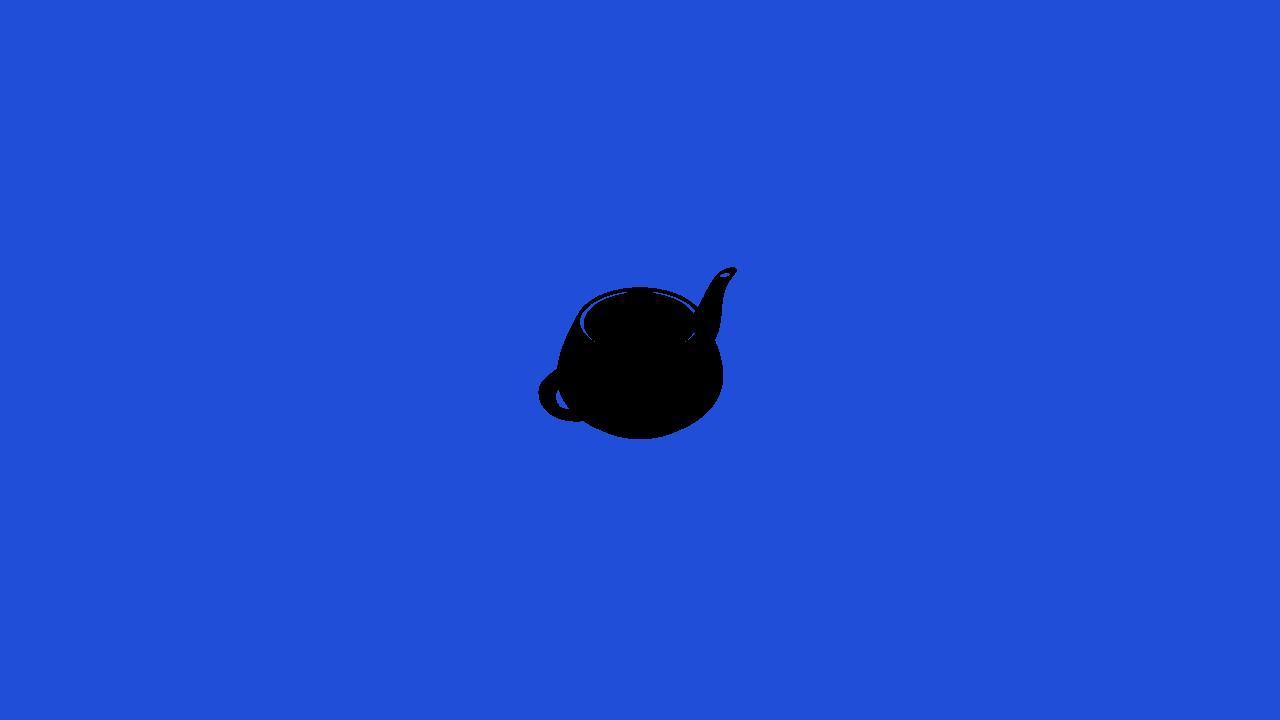
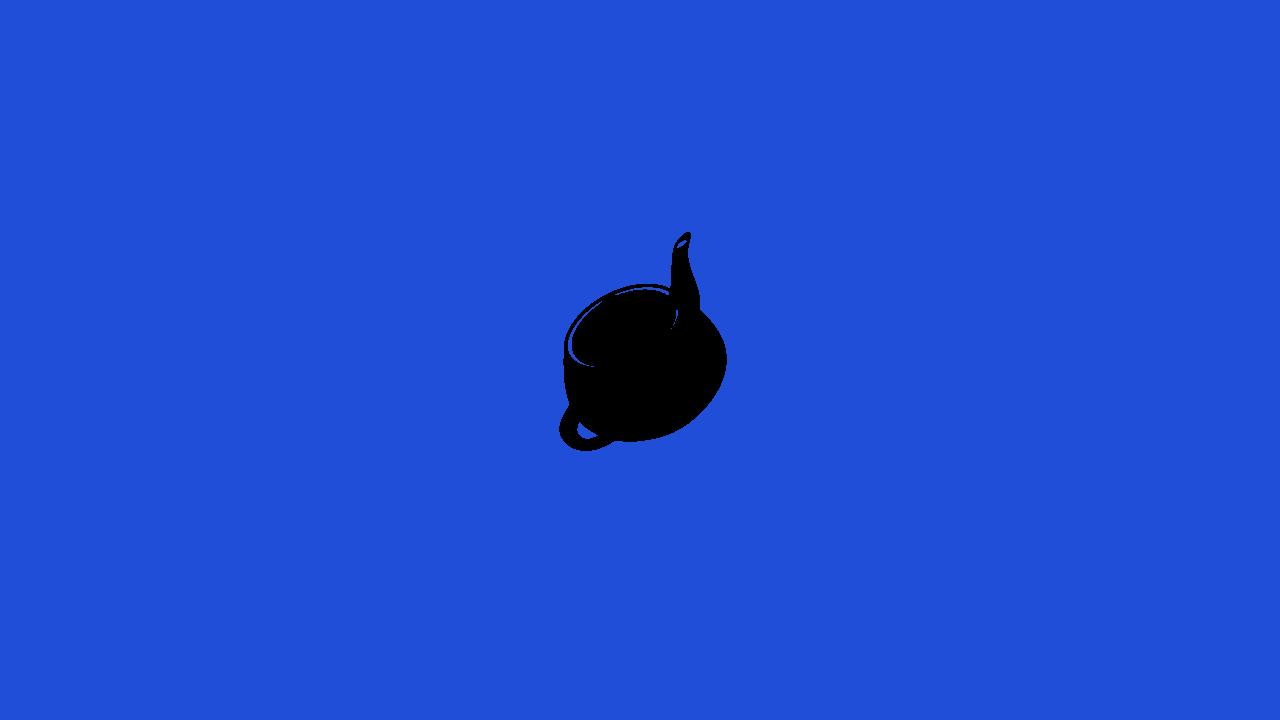
update ModelTest

Changed region(s): [[0.4062, 0.3056, 0.5938, 0.6417], [0.5312, 0.55, 0.5625, 0.6111]]

diff --git a/ProjectKristal/VisualTests/ModelTest.cs b/ProjectKristal/VisualTests/ModelTest.cs
@@ -21,7 +21,8 @@ namespace ProjectKristal.VisualTests
                 .AddComponent(new TeapotMesh())
                 .AddComponent(new MeshRenderer())
                 .AddComponent(new MaterialComponent() { Material = material })
-                .AddComponent(new Transform3D());
+                .AddComponent(new Transform3D())
+                .AddComponent(new Spinner { AxisIncrease = Vector3.One * 10 });
             Managers.EntityManager.Add(model);
         }
 
